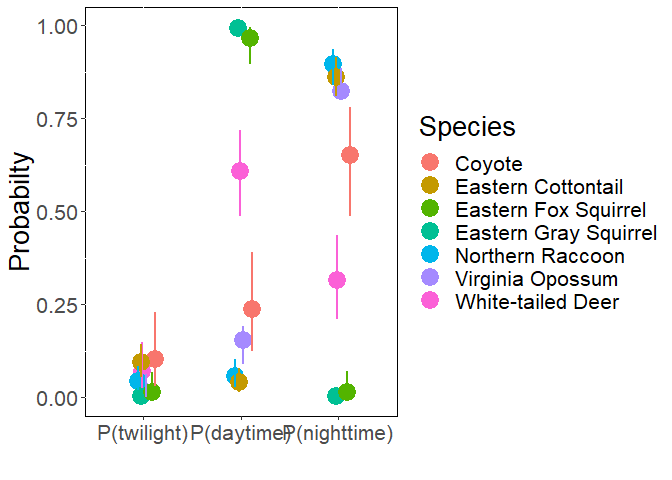
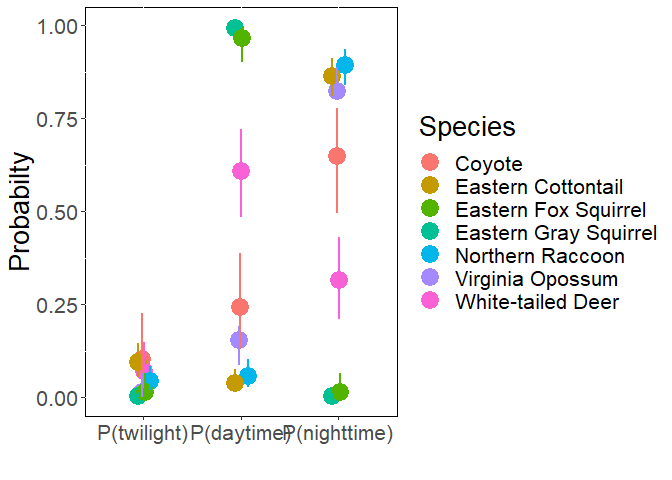
include yaml in md file

diff --git a/GitHub_vignettes/Example2.md b/GitHub_vignettes/Example2.md
@@ -1,3 +1,10 @@
+---
+title: "Example 3: Multiple species with one data analysis unit"
+author: "Brian D. Gerber"
+date: "2023-05-10"
+output: html_document
+---
+
 Commonly, researchers are interested in making inference on the spatial
 and temporal activity of an entire meso/large mammal community. Here, we
 will consider a camera trap study that is aimed at sampling multiple
@@ -29,20 +36,27 @@ literature designations of diel activity.
 
 # Data visual
   head(winter)
-#>             scientificName twilight day night trap_nights nsite  min_date  max_date mean_lat mean_lon season       country   phylum
-#> 118          Canis latrans        3   8    23         995   131 1/25/2019 2/20/2019 41.87236 -87.8423 Winter United States Chordata
-#> 119   Didelphis virginiana        0   7    18         995   131 1/25/2019 2/20/2019 41.87236 -87.8423 Winter United States Chordata
-#> 120 Odocoileus virginianus        4  39    20         995   131 1/25/2019 2/20/2019 41.87236 -87.8423 Winter United States Chordata
-#> 121          Procyon lotor        6   8   133         995   131 1/25/2019 2/20/2019 41.87236 -87.8423 Winter United States Chordata
-#> 122   Sciurus carolinensis        0 284     0         995   131 1/25/2019 2/20/2019 41.87236 -87.8423 Winter United States Chordata
-#> 123          Sciurus niger        0  49     0         995   131 1/25/2019 2/20/2019 41.87236 -87.8423 Winter United States Chordata
-#>        class           order      family             Project unit_type           Common_name Activity_Literature min_year
-#> 118 Mammalia       Carnivora     Canidae UWIN_Chicago_IL_USA     28day                Coyote          Cathemeral     2019
-#> 119 Mammalia Didelphimorphia Didelphidae UWIN_Chicago_IL_USA     28day      Virginia Opossum           Nocturnal     2019
-#> 120 Mammalia    Artiodactyla    Cervidae UWIN_Chicago_IL_USA     28day     White-tailed Deer         Crepuscular     2019
-#> 121 Mammalia       Carnivora Procyonidae UWIN_Chicago_IL_USA     28day      Northern Raccoon           Nocturnal     2019
-#> 122 Mammalia        Rodentia   Sciuridae UWIN_Chicago_IL_USA     28day Eastern Gray Squirrel             Diurnal     2019
-#> 123 Mammalia        Rodentia   Sciuridae UWIN_Chicago_IL_USA     28day  Eastern Fox Squirrel             Diurnal     2019
+#>             scientificName twilight day night trap_nights nsite  min_date  max_date mean_lat mean_lon season       country
+#> 118          Canis latrans        3   8    23         995   131 1/25/2019 2/20/2019 41.87236 -87.8423 Winter United States
+#> 119   Didelphis virginiana        0   7    18         995   131 1/25/2019 2/20/2019 41.87236 -87.8423 Winter United States
+#> 120 Odocoileus virginianus        4  39    20         995   131 1/25/2019 2/20/2019 41.87236 -87.8423 Winter United States
+#> 121          Procyon lotor        6   8   133         995   131 1/25/2019 2/20/2019 41.87236 -87.8423 Winter United States
+#> 122   Sciurus carolinensis        0 284     0         995   131 1/25/2019 2/20/2019 41.87236 -87.8423 Winter United States
+#> 123          Sciurus niger        0  49     0         995   131 1/25/2019 2/20/2019 41.87236 -87.8423 Winter United States
+#>       phylum    class           order      family             Project unit_type           Common_name Activity_Literature
+#> 118 Chordata Mammalia       Carnivora     Canidae UWIN_Chicago_IL_USA     28day                Coyote          Cathemeral
+#> 119 Chordata Mammalia Didelphimorphia Didelphidae UWIN_Chicago_IL_USA     28day      Virginia Opossum           Nocturnal
+#> 120 Chordata Mammalia    Artiodactyla    Cervidae UWIN_Chicago_IL_USA     28day     White-tailed Deer         Crepuscular
+#> 121 Chordata Mammalia       Carnivora Procyonidae UWIN_Chicago_IL_USA     28day      Northern Raccoon           Nocturnal
+#> 122 Chordata Mammalia        Rodentia   Sciuridae UWIN_Chicago_IL_USA     28day Eastern Gray Squirrel             Diurnal
+#> 123 Chordata Mammalia        Rodentia   Sciuridae UWIN_Chicago_IL_USA     28day  Eastern Fox Squirrel             Diurnal
+#>     min_year
+#> 118     2019
+#> 119     2019
+#> 120     2019
+#> 121     2019
+#> 122     2019
+#> 123     2019
 
 # Species observed
   unique(winter$scientificName)
@@ -101,8 +115,8 @@ supported model and its probability.
 
   round(sp.model.probs,digits=2)
 #>                       D    N CR    C
-#> Coyote                0 0.25  0 0.75
-#> Virginia Opossum      0 0.62  0 0.38
+#> Coyote                0 0.22  0 0.78
+#> Virginia Opossum      0 0.63  0 0.37
 #> White-tailed Deer     0 0.00  0 1.00
 #> Northern Raccoon      0 1.00  0 0.00
 #> Eastern Gray Squirrel 1 0.00  0 0.00
@@ -171,7 +185,7 @@ out.multi2=apply(y.df,1, multi.fit.fun2)
 #> Potential scale reduction factors:
 #> 
 #>      Point est. Upper C.I.
-#> p1_1          1       1.00
+#> p1_1          1       1.01
 #> p1_2          1       1.01
 #> 
 #> 
@@ -181,7 +195,7 @@ out.multi2=apply(y.df,1, multi.fit.fun2)
 #> Potential scale reduction factors:
 #> 
 #>      Point est. Upper C.I.
-#> p1_1          1       1.00
+#> p1_1          1       1.01
 #> p1_2          1       1.01
 #> 
 #> 
@@ -202,7 +216,7 @@ out.multi2=apply(y.df,1, multi.fit.fun2)
 #> 
 #>      Point est. Upper C.I.
 #> p1_1       1.01       1.02
-#> p1_2       1.01       1.01
+#> p1_2       1.01       1.02
 #> 
 #> 
 #> 
@@ -211,8 +225,8 @@ out.multi2=apply(y.df,1, multi.fit.fun2)
 #> Potential scale reduction factors:
 #> 
 #>      Point est. Upper C.I.
-#> p1_1       1.01       1.02
-#> p1_2       1.01       1.02
+#> p1_1          1       1.01
+#> p1_2          1       1.01
 #> 
 #> 
 #> 
@@ -221,8 +235,8 @@ out.multi2=apply(y.df,1, multi.fit.fun2)
 #> Potential scale reduction factors:
 #> 
 #>      Point est. Upper C.I.
-#> p1_1          1       1.00
-#> p1_2          1       1.01
+#> p1_1          1          1
+#> p1_2          1          1
   
 # Seeing no convergence issues, we can combine our chains
   post.samples=lapply(sapply(out.multi2,function(x) x[1]), FUN=function(x){do.call("rbind",x)})
@@ -237,23 +251,23 @@ prob.quantiles=lapply(post.samples, FUN=function(x){apply(x,2,quantile,probs=c(0
 
 prob.quantiles$Coyote.post.samp
 #>         p_crep_1   p_day_1 p_night_1
-#> 2.5%  0.03081088 0.1246497 0.4884022
-#> 50%   0.10240268 0.2380041 0.6519782
-#> 97.5% 0.22828127 0.3919421 0.7799100
+#> 2.5%  0.03407176 0.1287160 0.4947588
+#> 50%   0.10258668 0.2430664 0.6502072
+#> 97.5% 0.22698219 0.3879680 0.7767613
 
 # Extract posterior medians fo each species
   prob.median=matrix(unlist(lapply(prob.quantiles, FUN = function(x){x[2,]})),ncol=3,byrow = TRUE)
   rownames(prob.median)=names(post.samples)
   colnames(prob.median)=colnames(prob.quantiles$Coyote.post.samp)
   prob.median
-#>                                    p_crep_1    p_day_1   p_night_1
-#> Coyote.post.samp                0.102402677 0.23800411 0.651978245
-#> Virginia Opossum.post.samp      0.013975060 0.15468152 0.823714389
-#> White-tailed Deer.post.samp     0.071611183 0.60748259 0.316243839
-#> Northern Raccoon.post.samp      0.044672292 0.05811606 0.895331700
-#> Eastern Gray Squirrel.post.samp 0.002423386 0.99418520 0.002434285
-#> Eastern Fox Squirrel.post.samp  0.013988292 0.96658606 0.013558926
-#> Eastern Cottontail.post.samp    0.093784372 0.04020720 0.862534134
+#>                                    p_crep_1    p_day_1  p_night_1
+#> Coyote.post.samp                0.102586680 0.24306637 0.65020723
+#> Virginia Opossum.post.samp      0.014963791 0.15444798 0.82431990
+#> White-tailed Deer.post.samp     0.071337545 0.60792332 0.31432996
+#> Northern Raccoon.post.samp      0.045205633 0.05814651 0.89489244
+#> Eastern Gray Squirrel.post.samp 0.002535095 0.99402727 0.00241451
+#> Eastern Fox Squirrel.post.samp  0.013294381 0.96702867 0.01406167
+#> Eastern Cottontail.post.samp    0.094676991 0.03935353 0.86416017
 ```
 
 # Plotting
@@ -282,7 +296,7 @@ each species during the three diel periods.
       p      
 ```
 
-![](C:\Users\bgerber\Google%20Drive\GITHUB\Diel.Niche\GitHub_vignettes\Example2_files/figure-markdown_github/plotting-1.png)
+![](C:\Users\bgerber\GOOGLE~1\GITHUB\DIEL~1.NIC\GITHUB~1\EXAMPL~3/figure-markdown_github/plotting-1.png)
 
 ``` r
 
